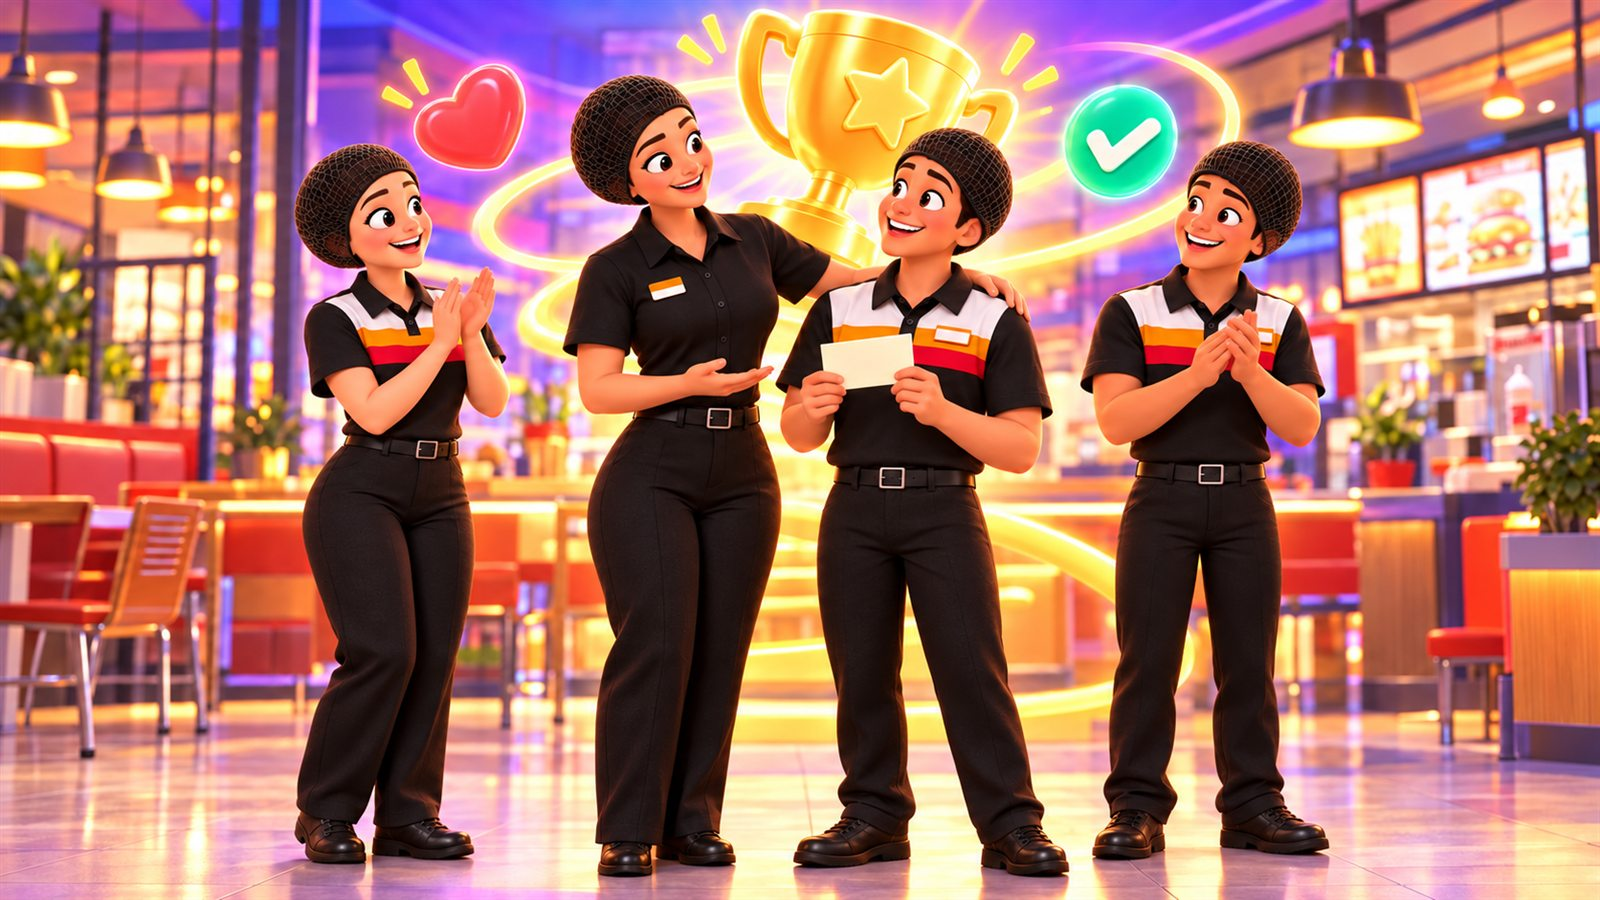
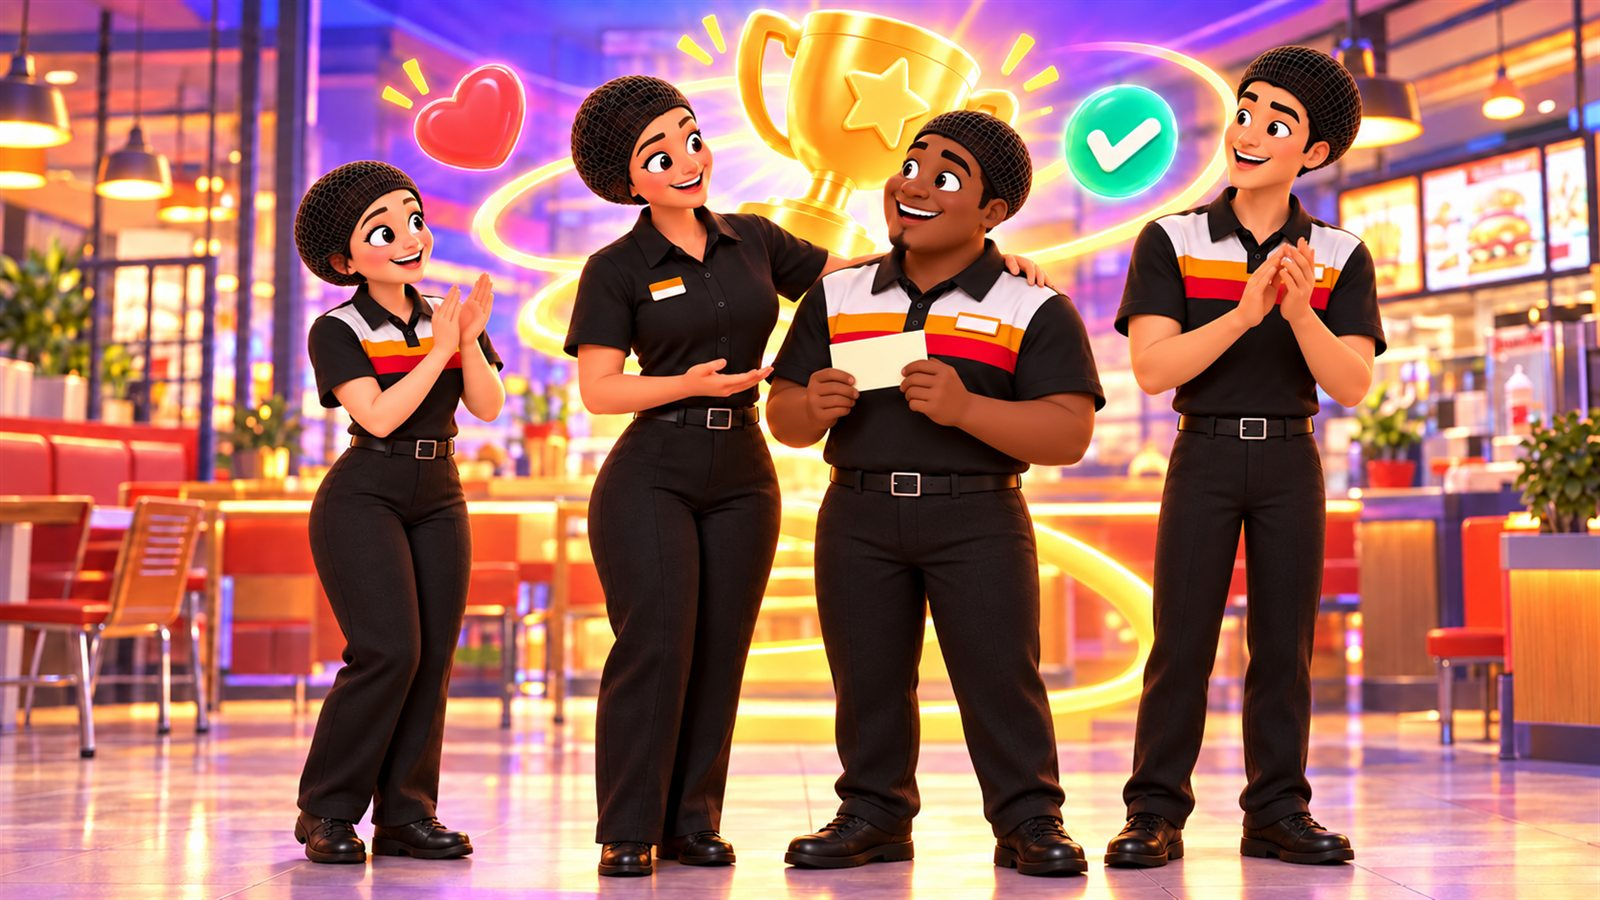
Refine cover spacing and funnel cards

diff --git a/style.css b/style.css
@@ -805,7 +805,7 @@ button:focus-visible, input:focus-visible, textarea:focus-visible { outline-colo
 
 .goal-funnel { margin: 2.5rem 0; padding: clamp(1.5rem, 4vw, 3rem); border: 1px solid color-mix(in srgb, var(--ku-brand) 20%, var(--ku-border)); border-radius: var(--ku-radius-xl); background: radial-gradient(circle at 15% 8%, rgba(255,255,255,.95), transparent 24%), linear-gradient(145deg, #f2efff 0%, #fff7ed 48%, #effcf8 100%); overflow: hidden; perspective: 900px; }
 .goal-funnel > h2 { margin: 0 0 1.5rem; text-align: center; font-size: clamp(1.7rem, 3vw, 2.5rem); }
-.funnel-stage { position: relative; display: grid; grid-template-columns: 2.4rem minmax(0, 1fr); align-items: start; gap: 1rem; box-sizing: border-box; margin: 0 auto; padding: 1.2rem clamp(1.5rem, 4vw, 3rem) 1.45rem; border: 1px solid rgba(255,255,255,.65); color: #231942; box-shadow: 0 .65rem 0 rgba(49,35,112,.14), 0 1rem 1.6rem rgba(49,35,112,.14), inset 0 1px 0 rgba(255,255,255,.8); clip-path: polygon(6% 0, 94% 0, 100% 100%, 0 100%); }
+.funnel-stage { position: relative; display: grid; grid-template-columns: 2.4rem minmax(0, 1fr); align-items: start; gap: 1rem; box-sizing: border-box; margin: 0 auto; padding: 1.2rem clamp(1.5rem, 4vw, 3rem) 1.45rem; border: 1px solid rgba(255,255,255,.65); border-radius: clamp(1rem, 2.2vw, 1.75rem); color: #231942; box-shadow: 0 .65rem 0 rgba(49,35,112,.14), 0 1rem 1.6rem rgba(49,35,112,.14), inset 0 1px 0 rgba(255,255,255,.8); overflow: hidden; }
 .funnel-stage::after { content: ""; position: absolute; inset: auto 7% .35rem; height: .22rem; border-radius: 999px; background: rgba(255,255,255,.5); }
 .funnel-goal { width: 43%; background: linear-gradient(135deg, #7b61ff, #d92d9b); color: #fff; }
 .funnel-metrics { width: 61%; background: linear-gradient(135deg, #76d8ff, #9ba8ff); }
@@ -832,7 +832,7 @@ button:focus-visible, input:focus-visible, textarea:focus-visible { outline-colo
   .funnel-metrics { width: 82%; }
   .funnel-zones { width: 92%; }
   .funnel-tasks { width: 100%; }
-  .funnel-stage { padding: 1rem 1.25rem; clip-path: polygon(3% 0, 97% 0, 100% 100%, 0 100%); }
+  .funnel-stage { padding: 1rem 1.25rem; border-radius: 1.1rem; }
   .funnel-grid { grid-template-columns: 1fr; }
 }
 

diff --git a/index.html b/index.html
@@ -7,7 +7,7 @@
   <meta name="description" content="Интерактивный курс о постановке целей и управлении их достижением в течение дня.">
   <title>Как управлять достижением целей на день</title>
   <link rel="stylesheet" href="css/kuds.css?v=5">
-  <link rel="stylesheet" href="style.css?v=50">
+  <link rel="stylesheet" href="style.css?v=51">
 </head>
 <body>
   <nav id="top-nav" aria-label="Навигация по курсу">
@@ -103,7 +103,7 @@
 
           <div class="funnel-stage funnel-metrics">
             <span class="funnel-number">2</span>
-            <div><h3>Показатели движения к цели</h3><ul><li>почасовая выручка и количество проданных новинок;</li><li>скорость и качество приготовления;</li><li>гостевой опыт.</li></ul></div>
+            <div><ul><li>почасовая выручка и количество проданных новинок;</li><li>скорость и качество приготовления;</li><li>гостевой опыт.</li></ul></div>
           </div>
           <span class="funnel-arrow" aria-hidden="true">↓</span>
 
